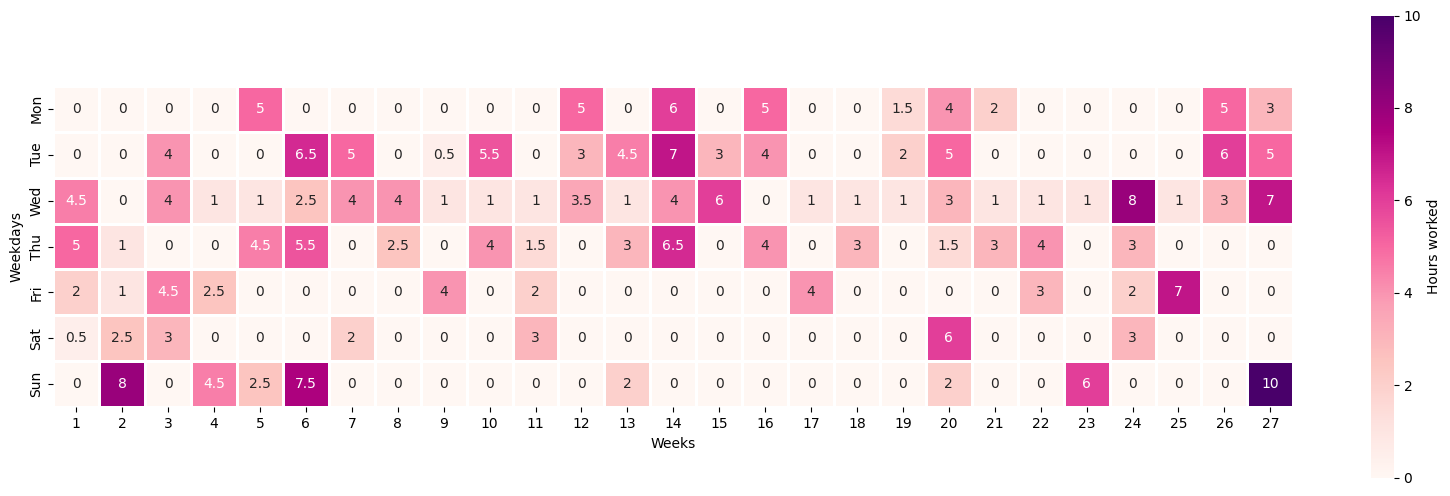
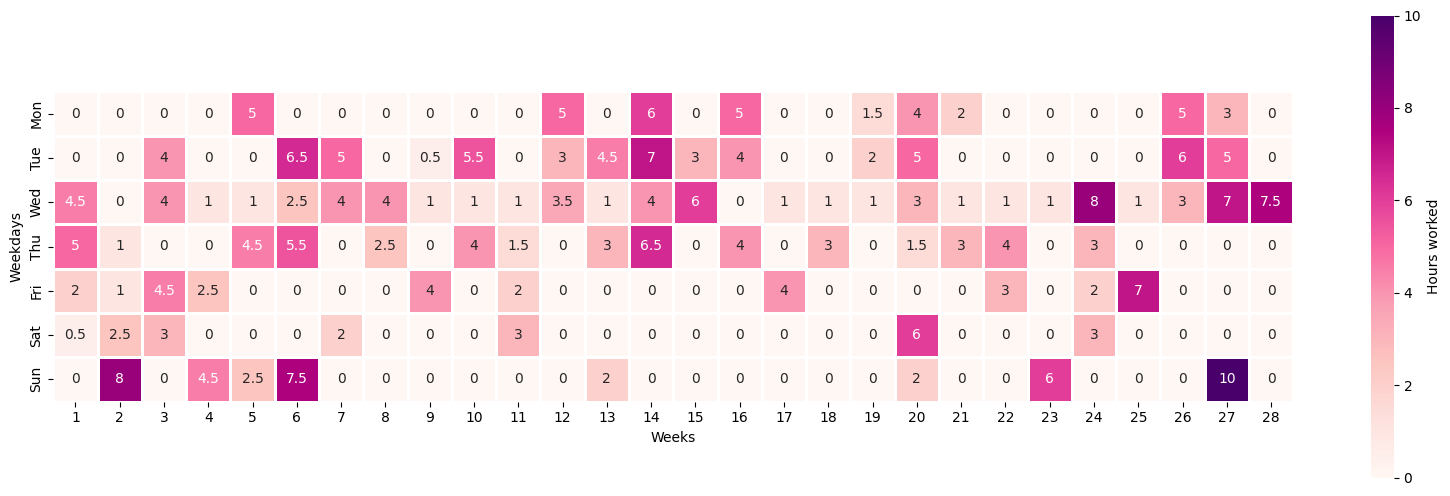
update timelog

Changed region(s): [[0.0, 0.1512, 0.9, 0.9073], [0.0, 0.5746, 0.031, 0.6048]]

diff --git a/timelog.md b/timelog.md
@@ -513,3 +513,11 @@
 ### 27 Mar 2022
 
 * *10 hours* Going through the dissertation, expanding upon reqs and design, changing plot colours, fixing typos, adding TLS function to implementation
+
+## Week 28
+
+### 30 Mar 2022
+
+* *0.5 hours* Supervisor meeting
+* *2 hours* Getting box plots to be smaller, adding high-level to reqs.
+* *5 hours* Checking everything for typos and assembling final submission files.
